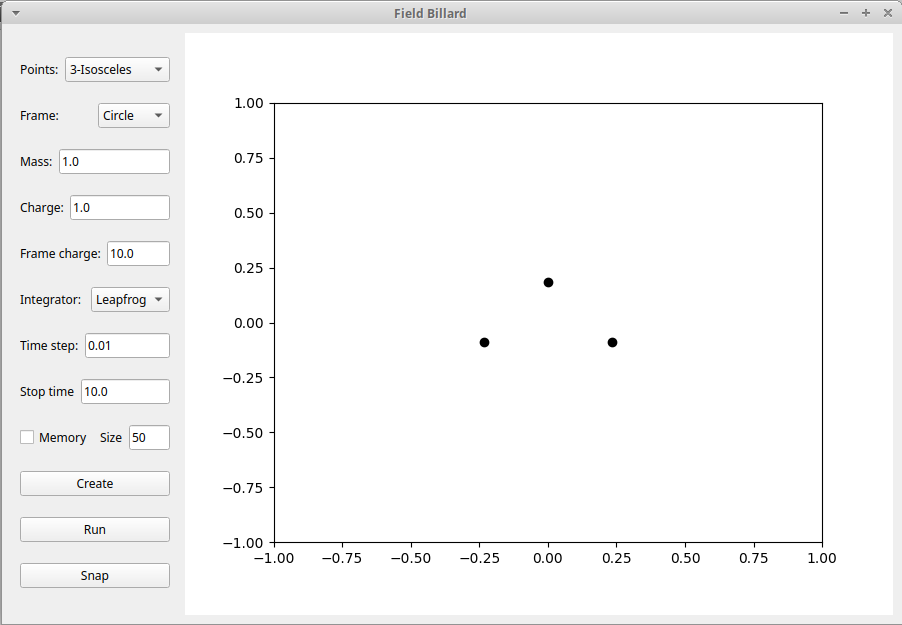
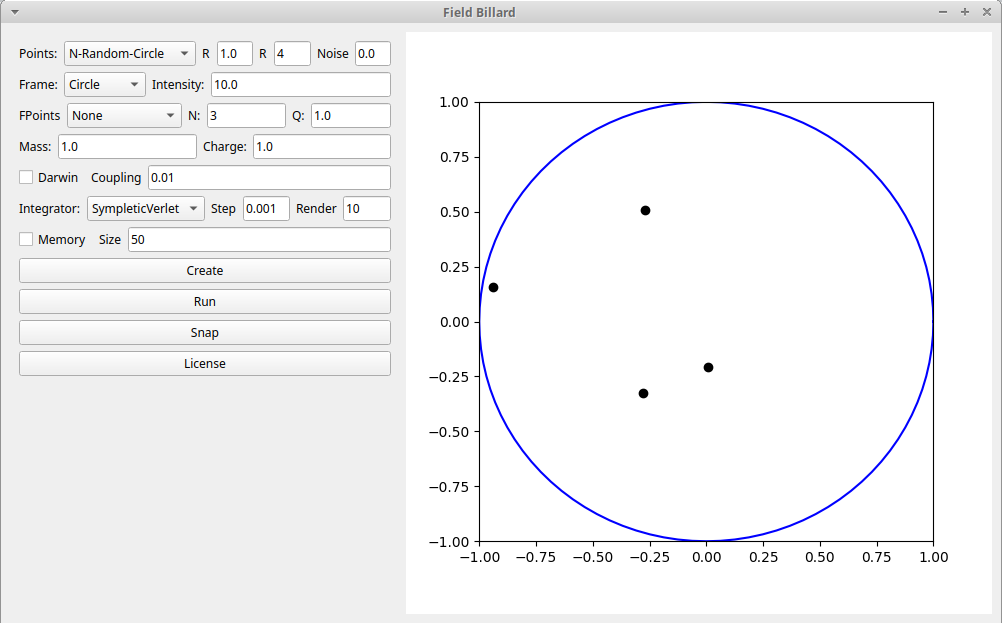
Added license to GUI

diff --git a/fieldbillard/visualizer.py b/fieldbillard/visualizer.py
@@ -30,6 +30,38 @@ INTEGRATORS = \
     ["SympleticEuler", "SympleticVerlet",
      "Tao20", "Tao80", "Tao320"] 
 
+LICENSE_MESSAGE = \
+"""\
+BSD 3-Clause License
+
+Copyright (c) 2022, Danilo de Freitas Naiff.
+All rights reserved.
+
+Redistribution and use in source and binary forms, with or without
+modification, are permitted provided that the following conditions are met:
+
+* Redistributions of source code must retain the above copyright notice, this
+  list of conditions and the following disclaimer.
+
+* Redistributions in binary form must reproduce the above copyright notice,
+  this list of conditions and the following disclaimer in the documentation
+  and/or other materials provided with the distribution.
+
+* Neither the name of the copyright holder nor the names of its
+  contributors may be used to endorse or promote products derived from
+  this software without specific prior written permission.
+
+THIS SOFTWARE IS PROVIDED BY THE COPYRIGHT HOLDERS AND CONTRIBUTORS "AS IS"
+AND ANY EXPRESS OR IMPLIED WARRANTIES, INCLUDING, BUT NOT LIMITED TO, THE
+IMPLIED WARRANTIES OF MERCHANTABILITY AND FITNESS FOR A PARTICULAR PURPOSE ARE
+DISCLAIMED. IN NO EVENT SHALL THE COPYRIGHT HOLDER OR CONTRIBUTORS BE LIABLE
+FOR ANY DIRECT, INDIRECT, INCIDENTAL, SPECIAL, EXEMPLARY, OR CONSEQUENTIAL
+DAMAGES (INCLUDING, BUT NOT LIMITED TO, PROCUREMENT OF SUBSTITUTE GOODS OR
+SERVICES; LOSS OF USE, DATA, OR PROFITS; OR BUSINESS INTERRUPTION) HOWEVER
+CAUSED AND ON ANY THEORY OF LIABILITY, WHETHER IN CONTRACT, STRICT LIABILITY,
+OR TORT (INCLUDING NEGLIGENCE OR OTHERWISE) ARISING IN ANY WAY OUT OF THE USE
+OF THIS SOFTWARE, EVEN IF ADVISED OF THE POSSIBILITY OF SUCH DAMAGE.
+"""
 
 class Visualizer(QMainWindow):
     def __init__(self):
@@ -187,21 +219,20 @@ class FormWidget(QWidget):
         run_button.clicked.connect(self.run)
         snap_button = QPushButton("Snap")
         snap_button.clicked.connect(self.snap)
+        license_button = QPushButton("License")
+        license_button.clicked.connect(self.show_license)
         
         self.layout.addLayout(design_hbox)
-        #self.layout.addLayout(noise_hbox)
         self.layout.addLayout(frame_hbox)
         self.layout.addLayout(fixed_points_hbox)
         self.layout.addLayout(mass_hbox)
-        #self.layout.addLayout(charge_hbox)
-        #self.layout.addLayout(frame_charge_hbox)
         self.layout.addLayout(darwin_hbox)
         self.layout.addLayout(integrator_hbox)
-        #self.layout.addLayout(timestep_hbox)
         self.layout.addLayout(memory_hbox)
         self.layout.addWidget(create_button)
         self.layout.addWidget(run_button)
         self.layout.addWidget(snap_button)
+        self.layout.addWidget(license_button)
         self.layout.addStretch(1)
         self.setLayout(self.layout)
         
@@ -209,7 +240,11 @@ class FormWidget(QWidget):
         self.timer = QTimer()
         self.timer.setInterval(int(1/frame_rate)*1000)
         self.timer.timeout.connect(self.update)
-
+    
+    def show_license(self):
+        QMessageBox.information(self, "License", 
+                                LICENSE_MESSAGE, QMessageBox.Ok)
+        
     def create(self):
         self.timer.stop()
         self.parent.plot.reset_plot()

diff --git a/fieldbillard/visutils.py b/fieldbillard/visutils.py
@@ -50,26 +50,6 @@ def create_system_from_design(design, noise, mass, charge, pradius, npoints, dar
         x, y = _sample_uniform_unit_square(npoints, pradius)
     elif design == "N-Equilateral":
         x, y = _make_equilateral_designs(pradius, npoints)
-    # elif design == "3-Random":
-    #     x, y = _sample_uniform_unit_circle(3, 1.0)
-    # elif design == "4-Random":
-    #     x, y = _sample_uniform_unit_circle(4, 1.0)
-    # elif design == "5-Random":
-    #     x, y = _sample_uniform_unit_circle(5, 1.0)
-    # elif design == "5-Circle":
-    #     x, y = _make_equilateral_designs(0.8, 5)
-    # elif design == "6-Random":
-    #     x, y = _sample_uniform_unit_circle(6, 1.0)
-    # elif design == "6-Circle":
-    #     x, y = _make_equilateral_designs(0.8, 6)
-    # elif design == "12-Random":
-    #     x, y = _sample_uniform_unit_circle(12, 1.0)
-    # elif design == "12-Circle":
-    #     x, y = _make_equilateral_designs(0.8, 12)
-    # elif design == "24-Random":
-    #     x, y = _sample_uniform_unit_circle(24, 1.0)
-    # elif design == "24-Circle":
-    #     x, y = _make_equilateral_designs(0.8, 24)
     x += noise*torch.randn_like(x)
     y += noise*torch.randn_like(y)
     syst = system.NBodySystem(x, y, mass=mass, charge=charge,
